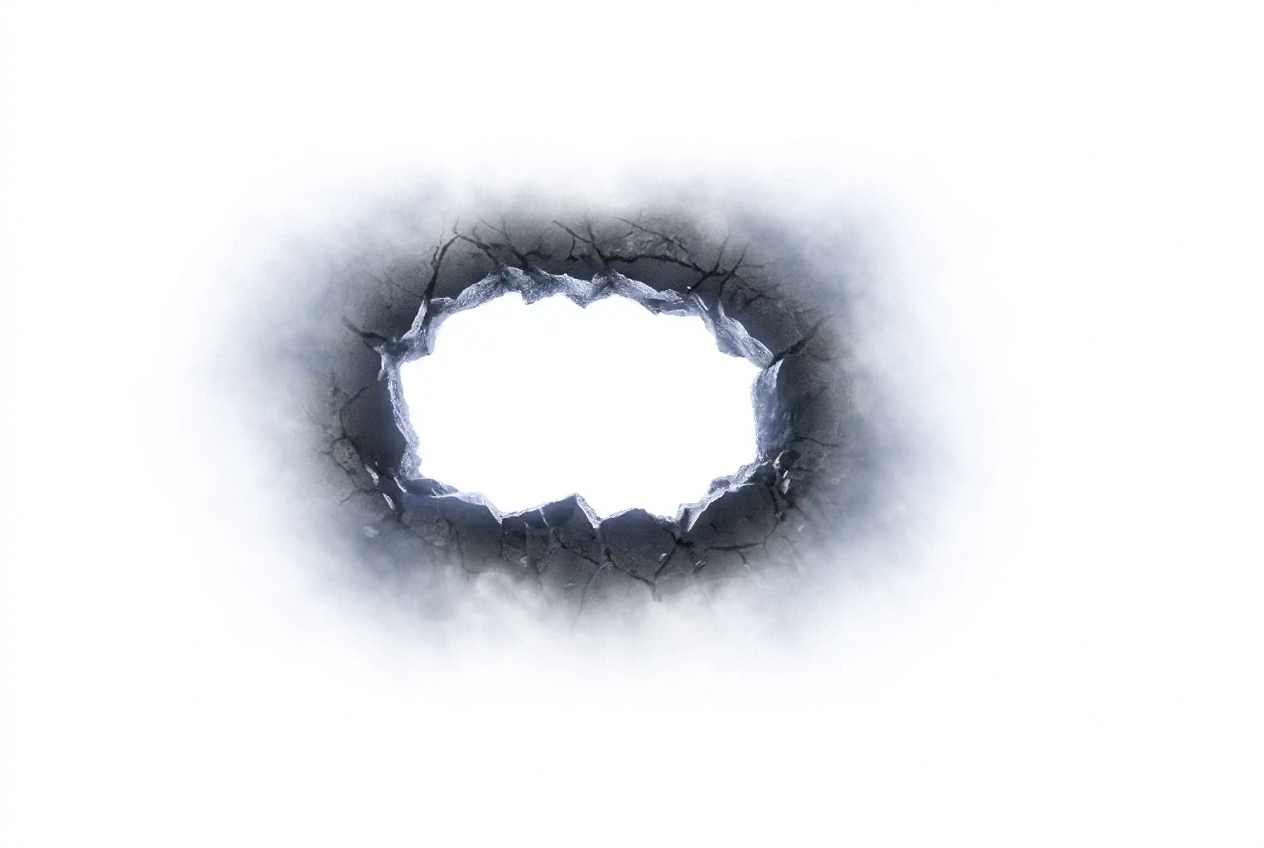
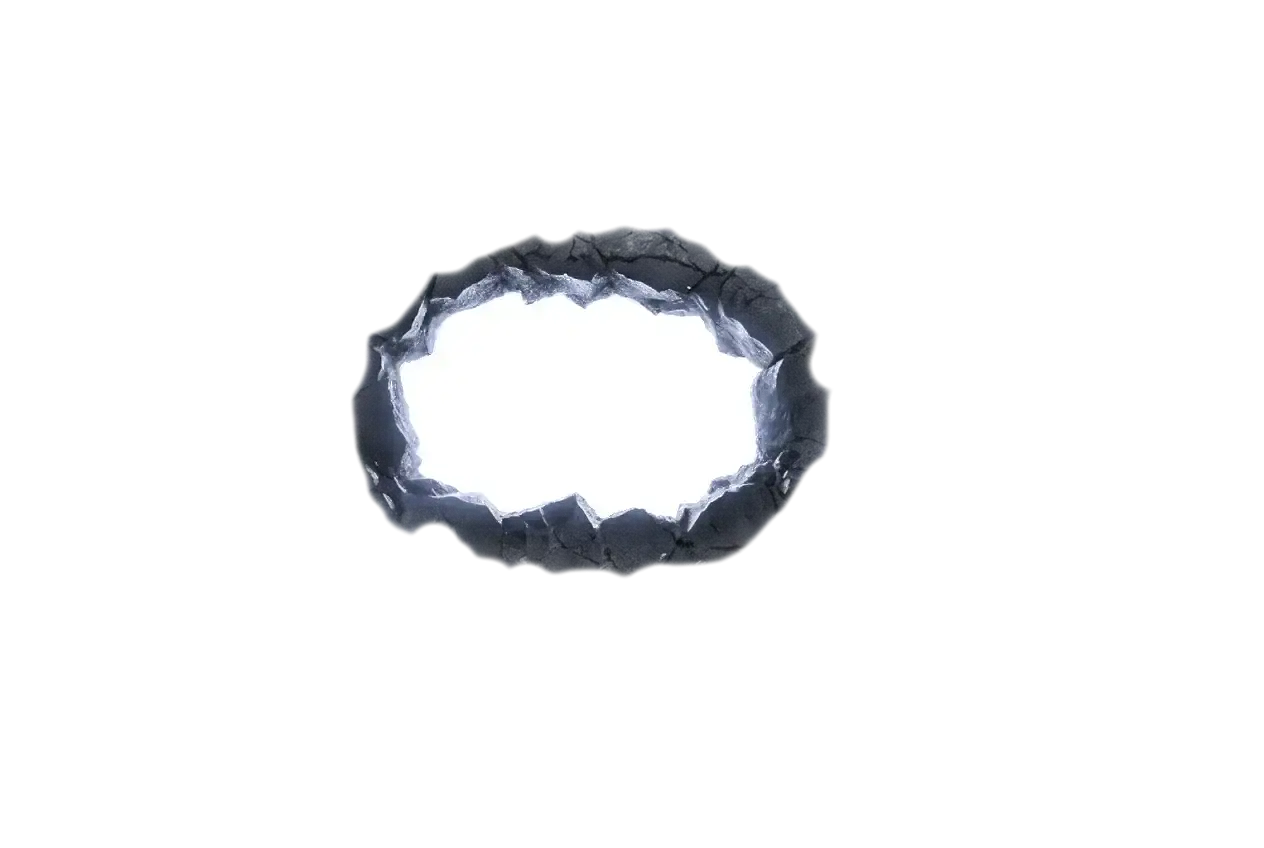
feat(breach): swap to archiveEntrance2 asset and move 'Enter the archive' to the label

Changed region(s): [[0.1543, 0.2146, 0.7714, 0.7665]]

diff --git a/src/sections/Cave.tsx b/src/sections/Cave.tsx
@@ -242,7 +242,11 @@ export function Cave() {
             />
           </div>
           <div className={styles.breachContent}>
-            <span className={styles.breachLabel}>{t.cave.breachLabel}</span>
+            <span className={styles.breachLabel}>
+              {t.cave.breachLabel.split('\n').map((line, idx) => (
+                <span key={idx} style={{ display: 'block' }}>{line}</span>
+              ))}
+            </span>
             <p className={styles.breachDesc}>
               {t.cave.breachDesc.split('\n').map((line, idx) => (
                 <span key={idx} style={{ display: 'block' }}>{line}</span>

diff --git a/src/content/ru.ts b/src/content/ru.ts
@@ -27,8 +27,8 @@ export const ru: I18nDict = {
     flashlightTitle: 'Фонарь',
     flashlightHint: 'Двигайтесь курсором, чтобы проявить пещеру.',
     flashlightHint2: 'Прокрутите вниз — путь начинается.',
-    breachLabel: 'Архив',
-    breachDesc: 'Перейти\nв архив',
+    breachLabel: 'Перейти\nв архив',
+    breachDesc: 'Прямой доступ к результатам.\nПросмотр портфолио и событий',
   },
   ancient: { title: 'Древние образы' },
   exitFlight: {

diff --git a/src/content/en.ts b/src/content/en.ts
@@ -27,8 +27,8 @@ export const en: I18nDict = {
     flashlightTitle: 'Flashlight',
     flashlightHint: 'Move the cursor to reveal the cave.',
     flashlightHint2: 'Scroll down—the journey begins.',
-    breachLabel: 'Archive',
-    breachDesc: 'Enter\nThe archive',
+    breachLabel: 'Enter\nThe archive',
+    breachDesc: 'Direct access to the results.\nView the portfolio and events',
   },
   ancient: { title: 'Ancient marks' },
   exitFlight: {
